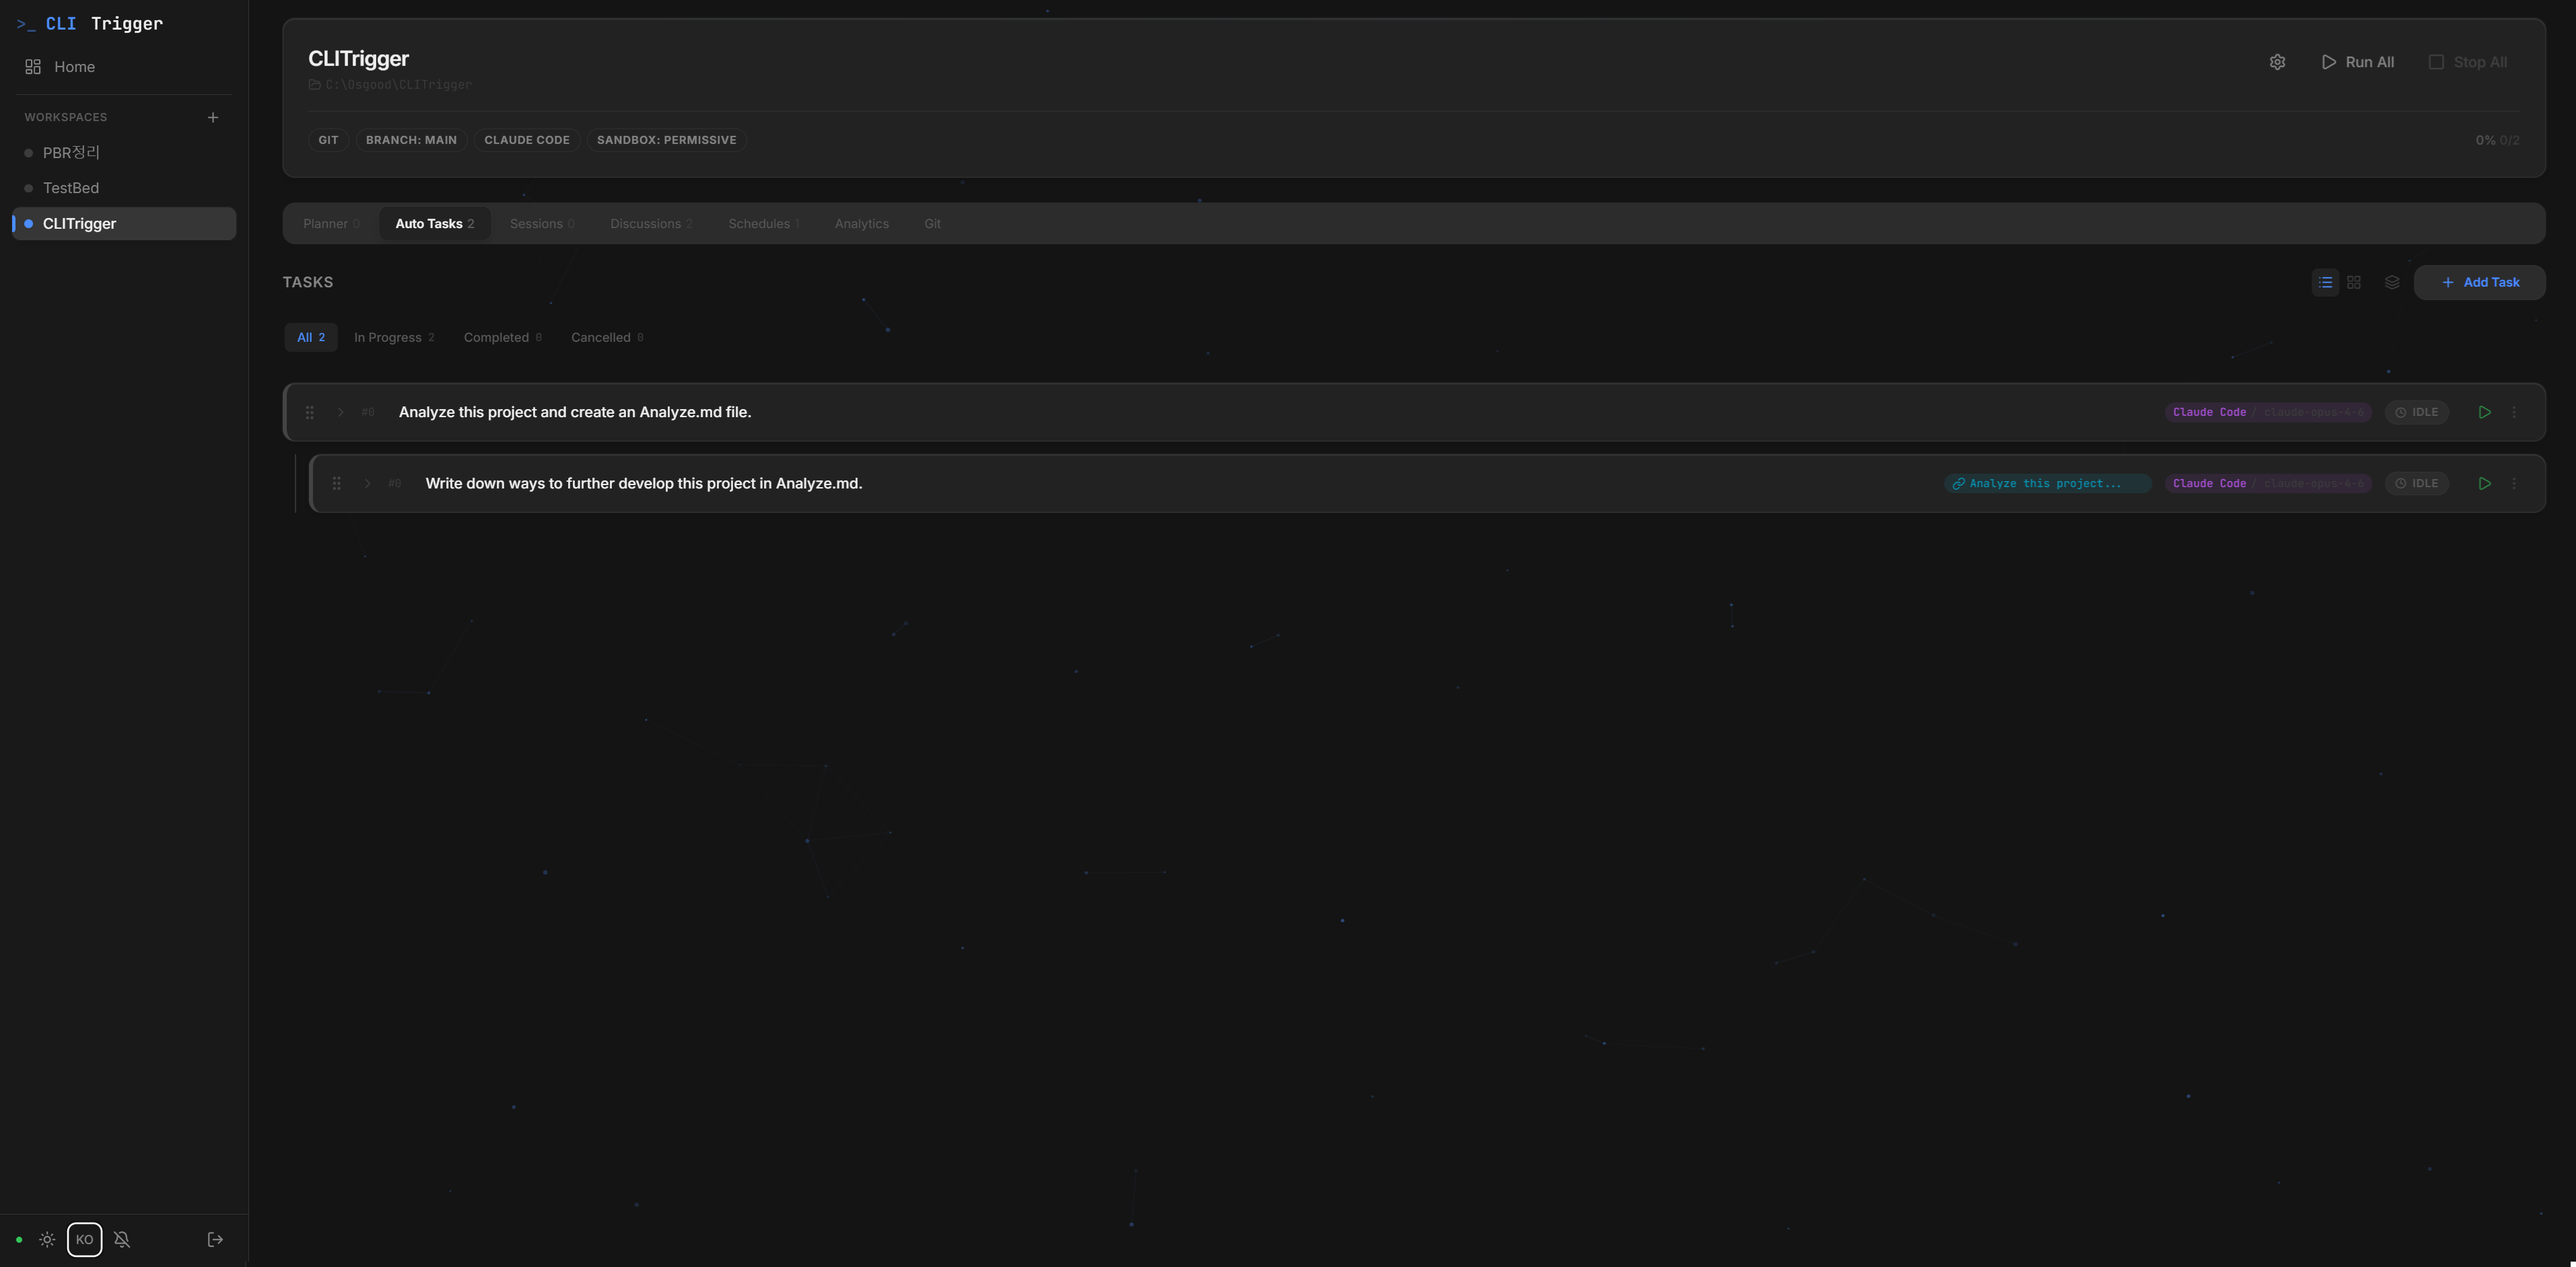
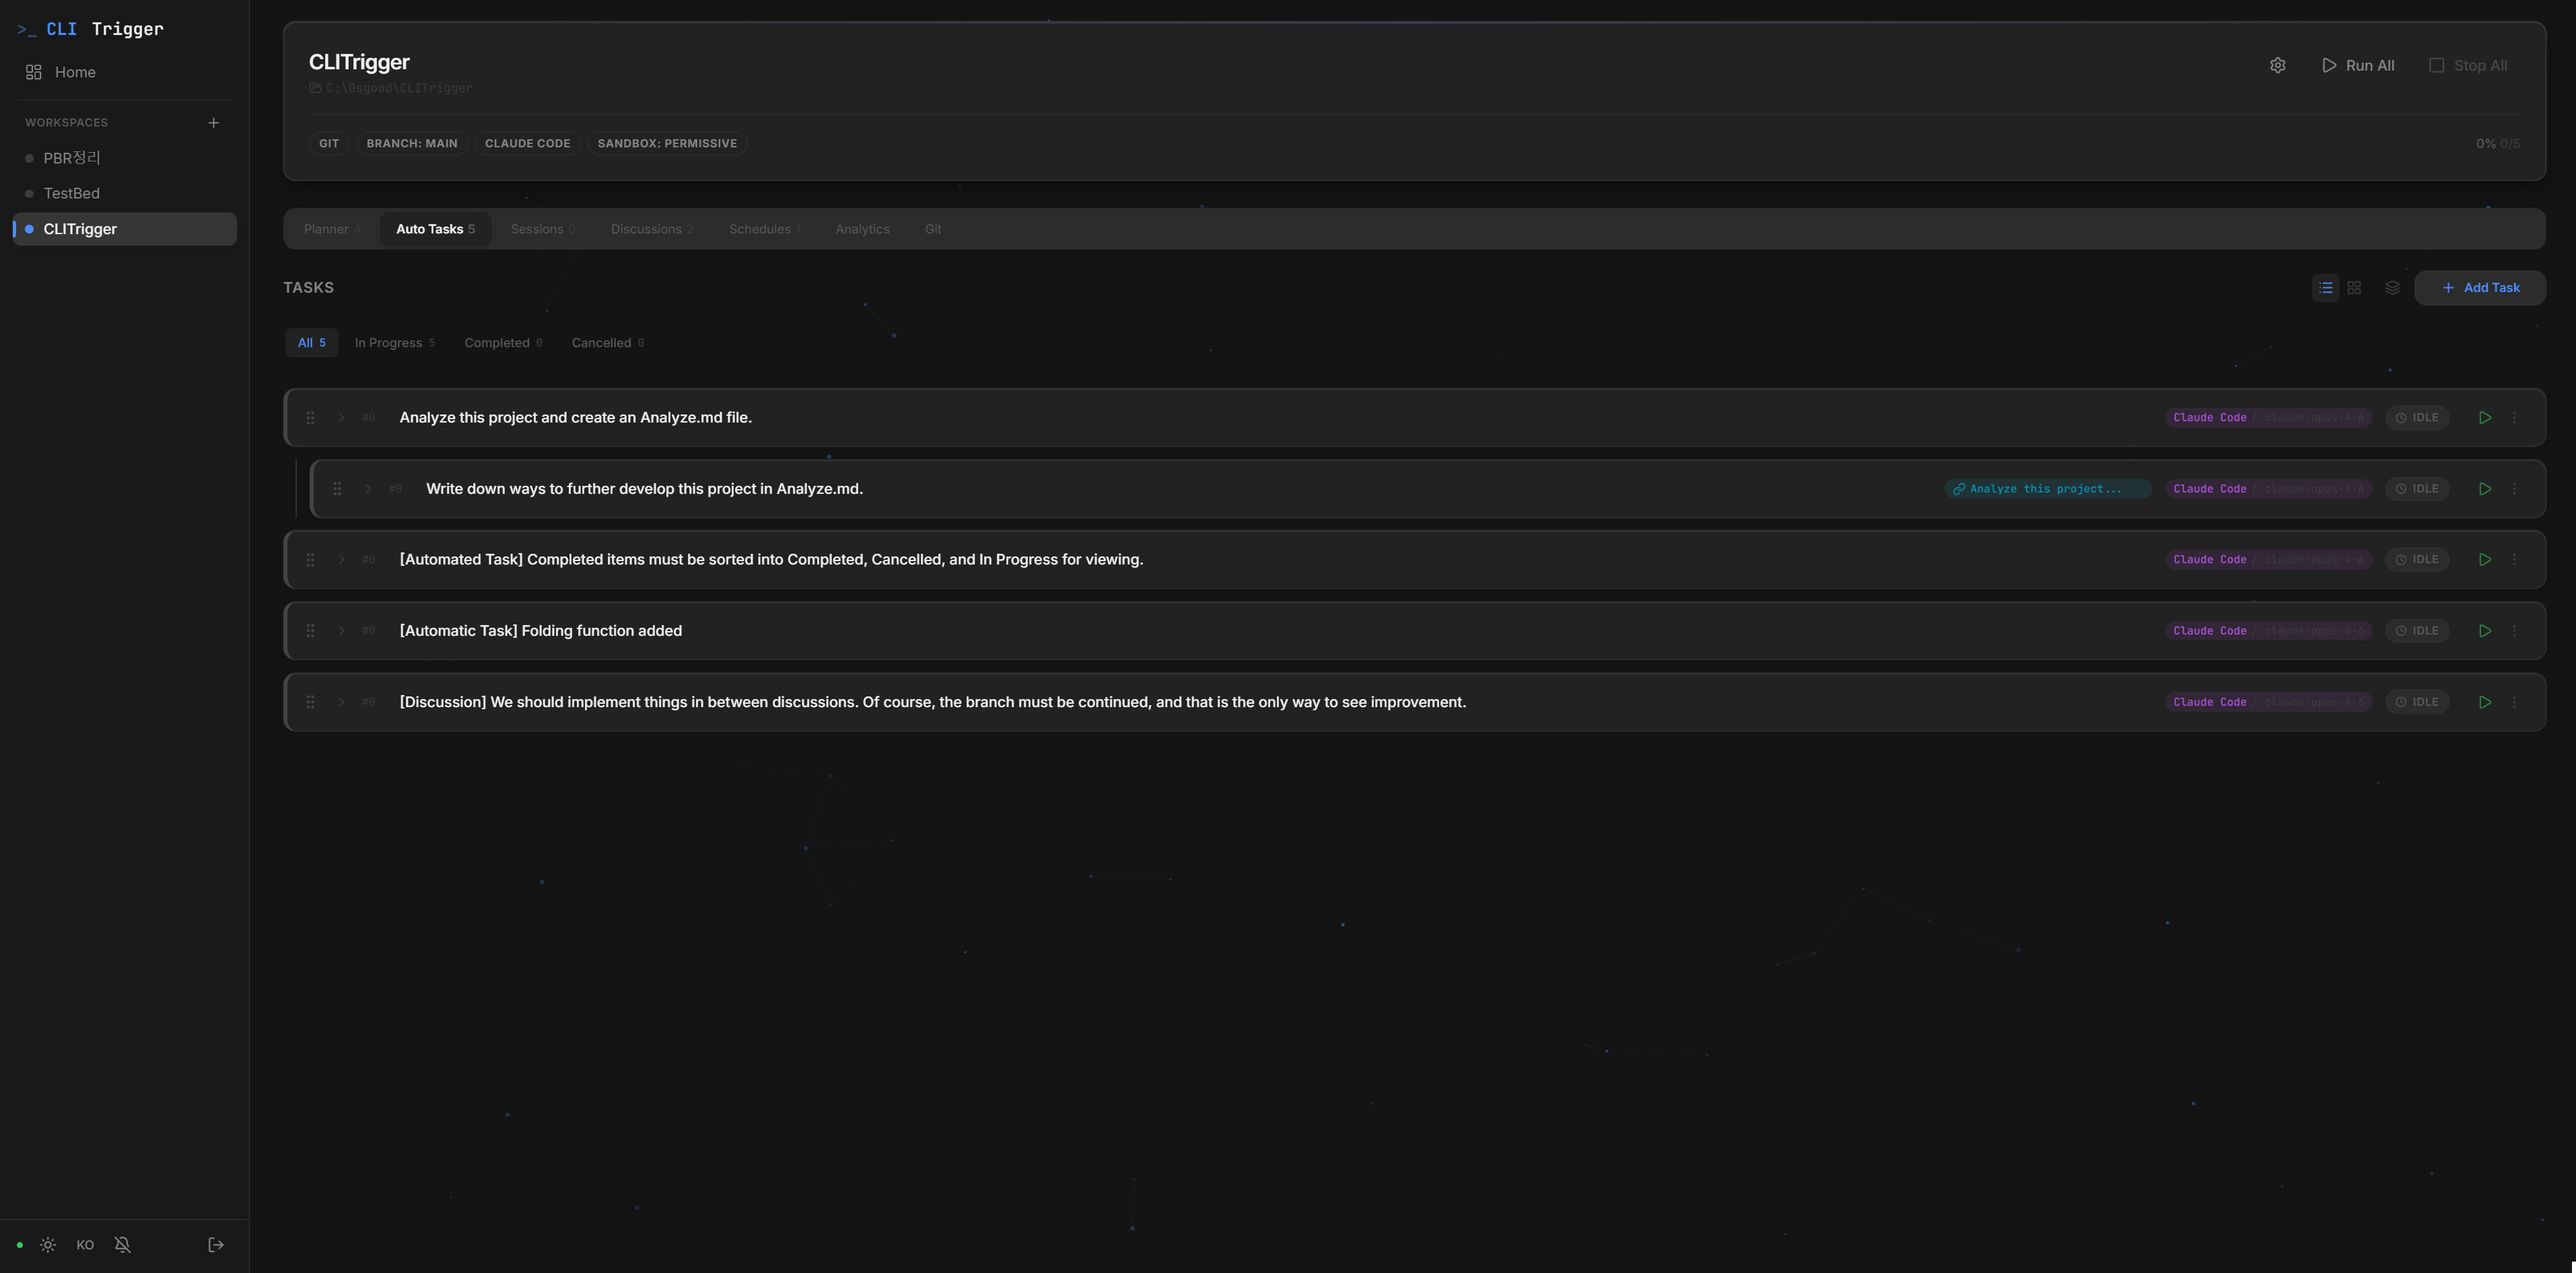
WIP(planner): constrain toolbar select width and prevent button shrink

diff --git a/src/client/src/components/PlannerList.tsx b/src/client/src/components/PlannerList.tsx
@@ -137,13 +137,13 @@ export default function PlannerList({
           <span className="ml-1 text-warm-400">{plannerItems.length}</span>
         </h2>
 
-        <div className="flex flex-wrap items-center gap-2">
-          <select className="input-field text-xs py-1.5 px-2" value={filterTag} onChange={(e) => setFilterTag(e.target.value)}>
+        <div className="flex items-center gap-2 min-w-0">
+          <select className="input-field text-xs py-1.5 px-2 w-auto max-w-[10rem] shrink" value={filterTag} onChange={(e) => setFilterTag(e.target.value)}>
             <option value="">{t('planner.filterTag')}</option>
             {tagNames.map((tag) => (<option key={tag} value={tag}>{tag}</option>))}
           </select>
 
-          <select className="input-field text-xs py-1.5 px-2" value={filterStatus} onChange={(e) => setFilterStatus(e.target.value)}>
+          <select className="input-field text-xs py-1.5 px-2 w-auto max-w-[10rem] shrink" value={filterStatus} onChange={(e) => setFilterStatus(e.target.value)}>
             <option value="">{t('planner.filterStatus')}</option>
             <option value="pending">{t('plannerStatus.pending')}</option>
             <option value="in_progress">{t('plannerStatus.in_progress')}</option>
@@ -155,7 +155,7 @@ export default function PlannerList({
             <button
               onClick={handleExportClick}
               disabled={ioBusy || plannerItems.length === 0}
-              className="btn-secondary text-xs py-2 whitespace-nowrap disabled:opacity-50"
+              className="btn-secondary text-xs py-2 whitespace-nowrap shrink-0 disabled:opacity-50"
               title={t('planner.exportTooltip')}
             >
               <Download size={14} className="inline-block shrink-0" />
@@ -167,7 +167,7 @@ export default function PlannerList({
               <button
                 onClick={handleImportClick}
                 disabled={ioBusy}
-                className="btn-secondary text-xs py-2 whitespace-nowrap disabled:opacity-50"
+                className="btn-secondary text-xs py-2 whitespace-nowrap shrink-0 disabled:opacity-50"
                 title={t('planner.importTooltip')}
               >
                 <Upload size={14} className="inline-block shrink-0" />
